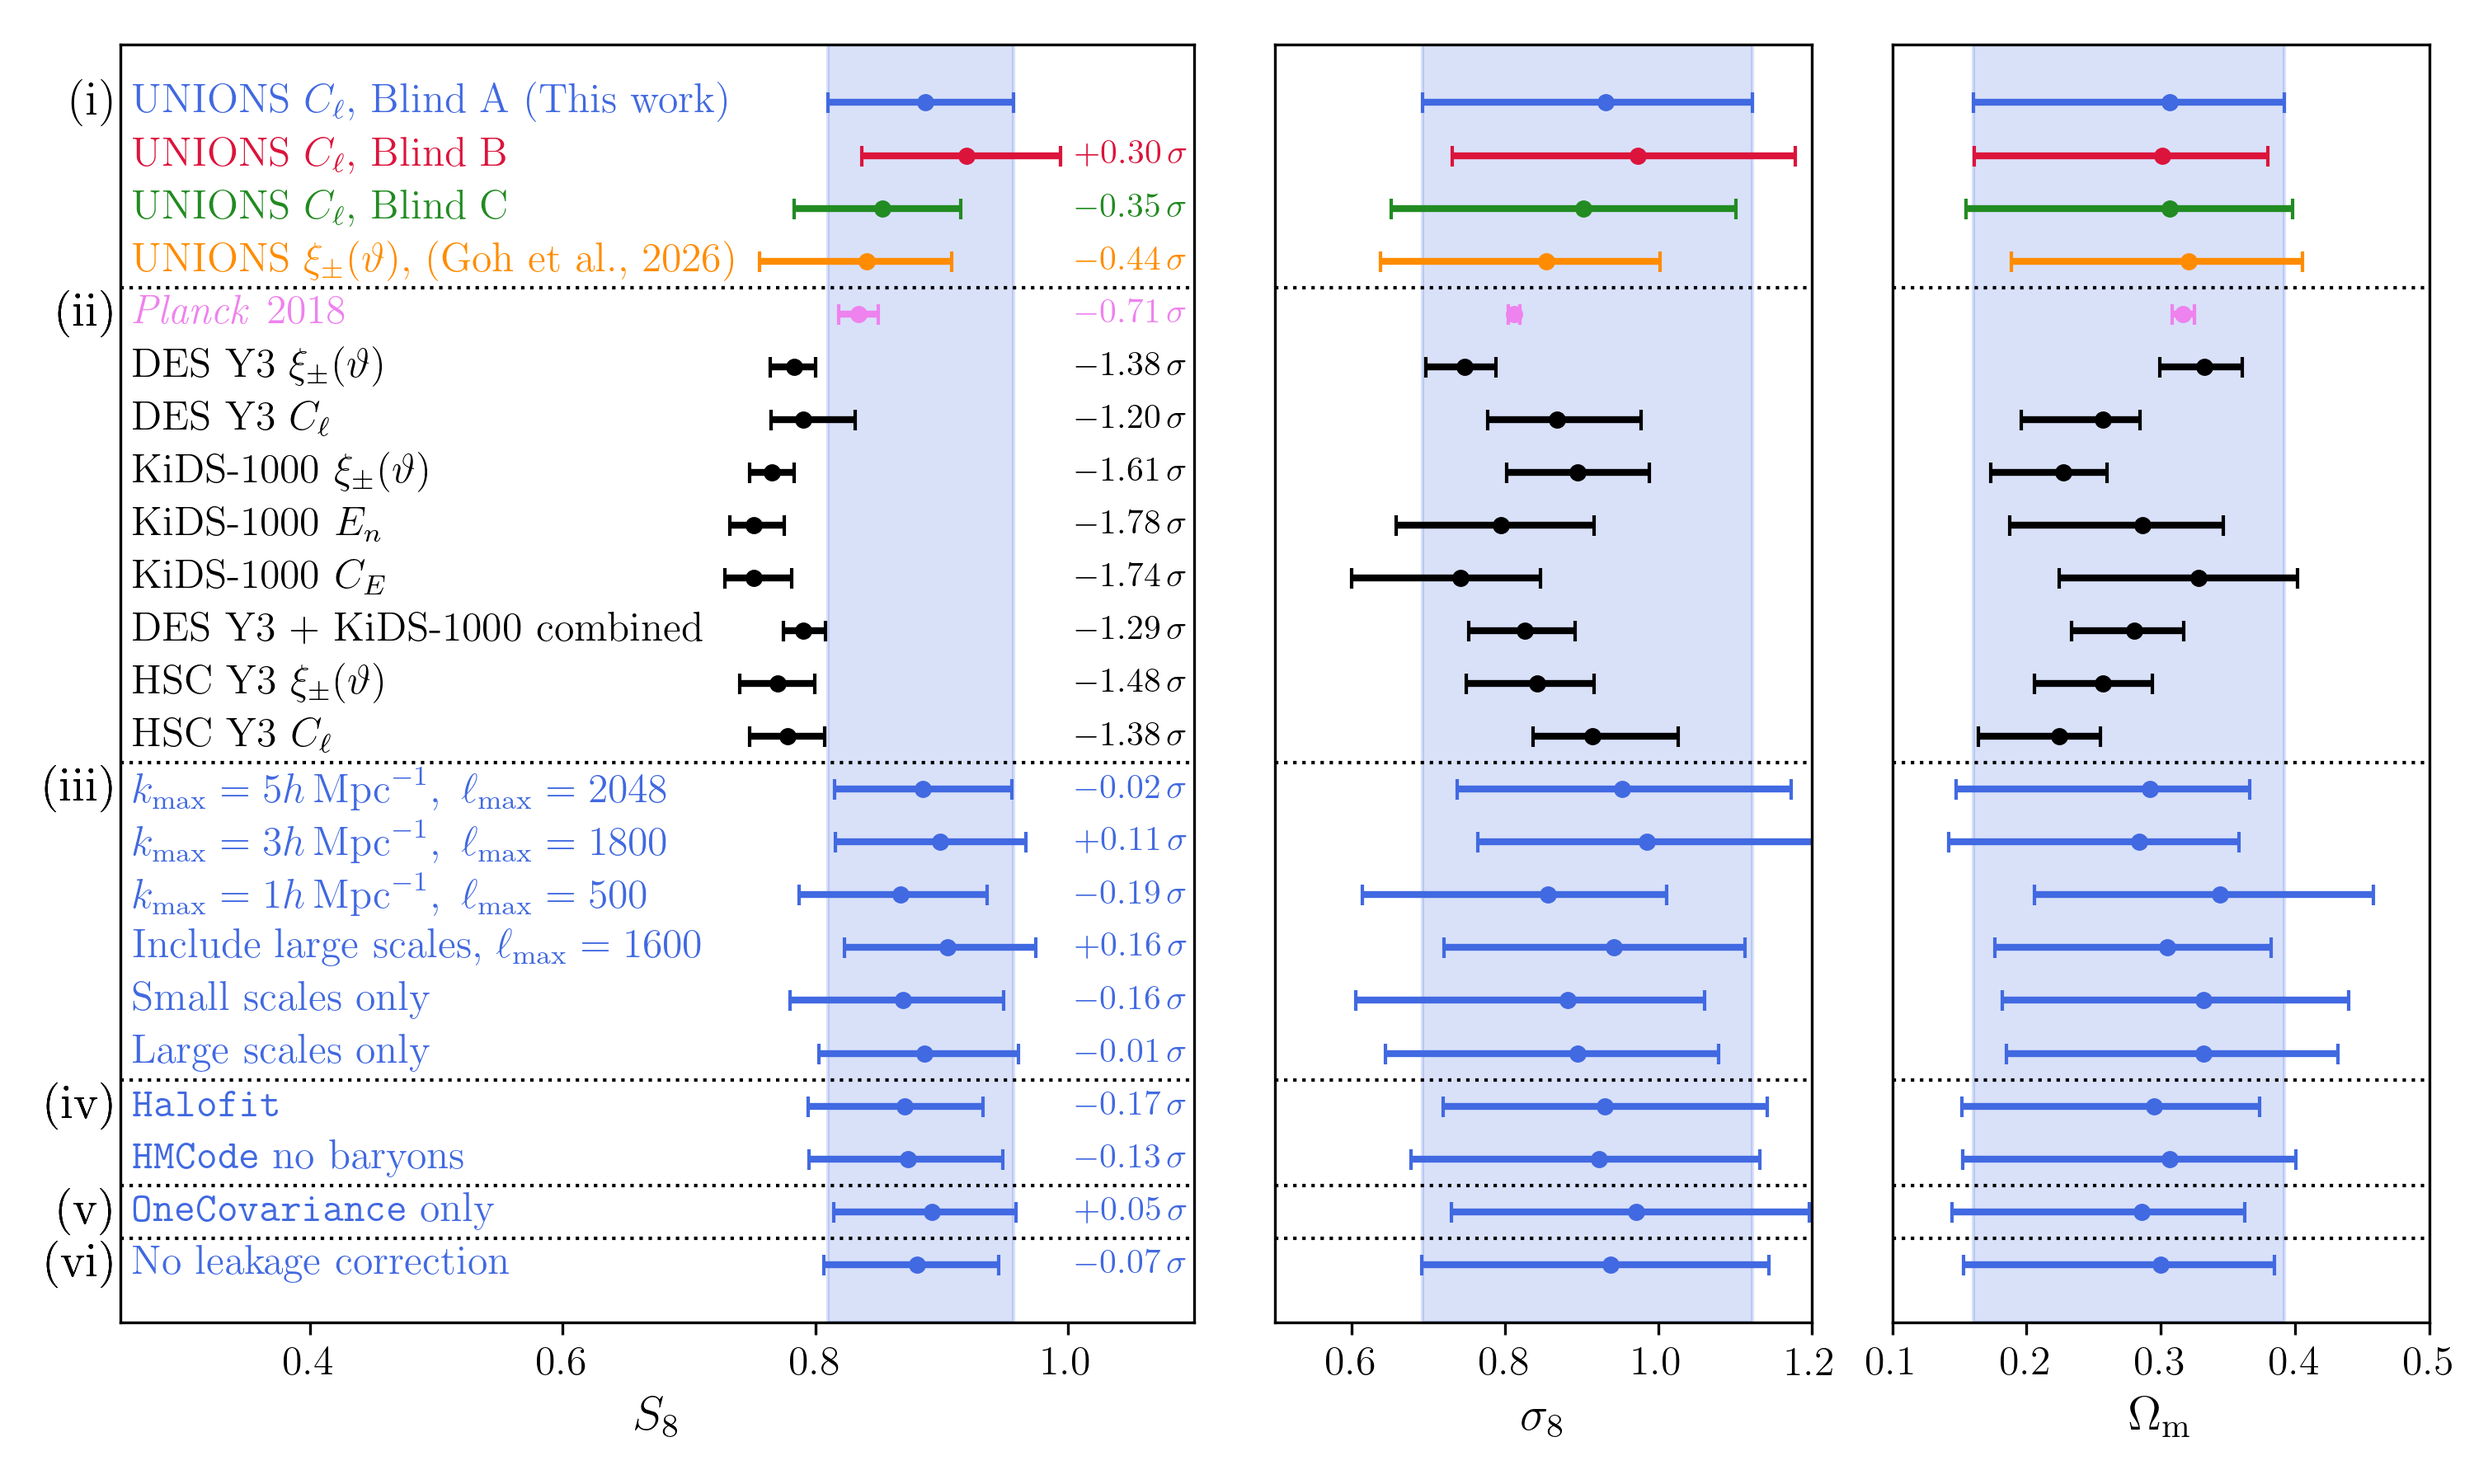
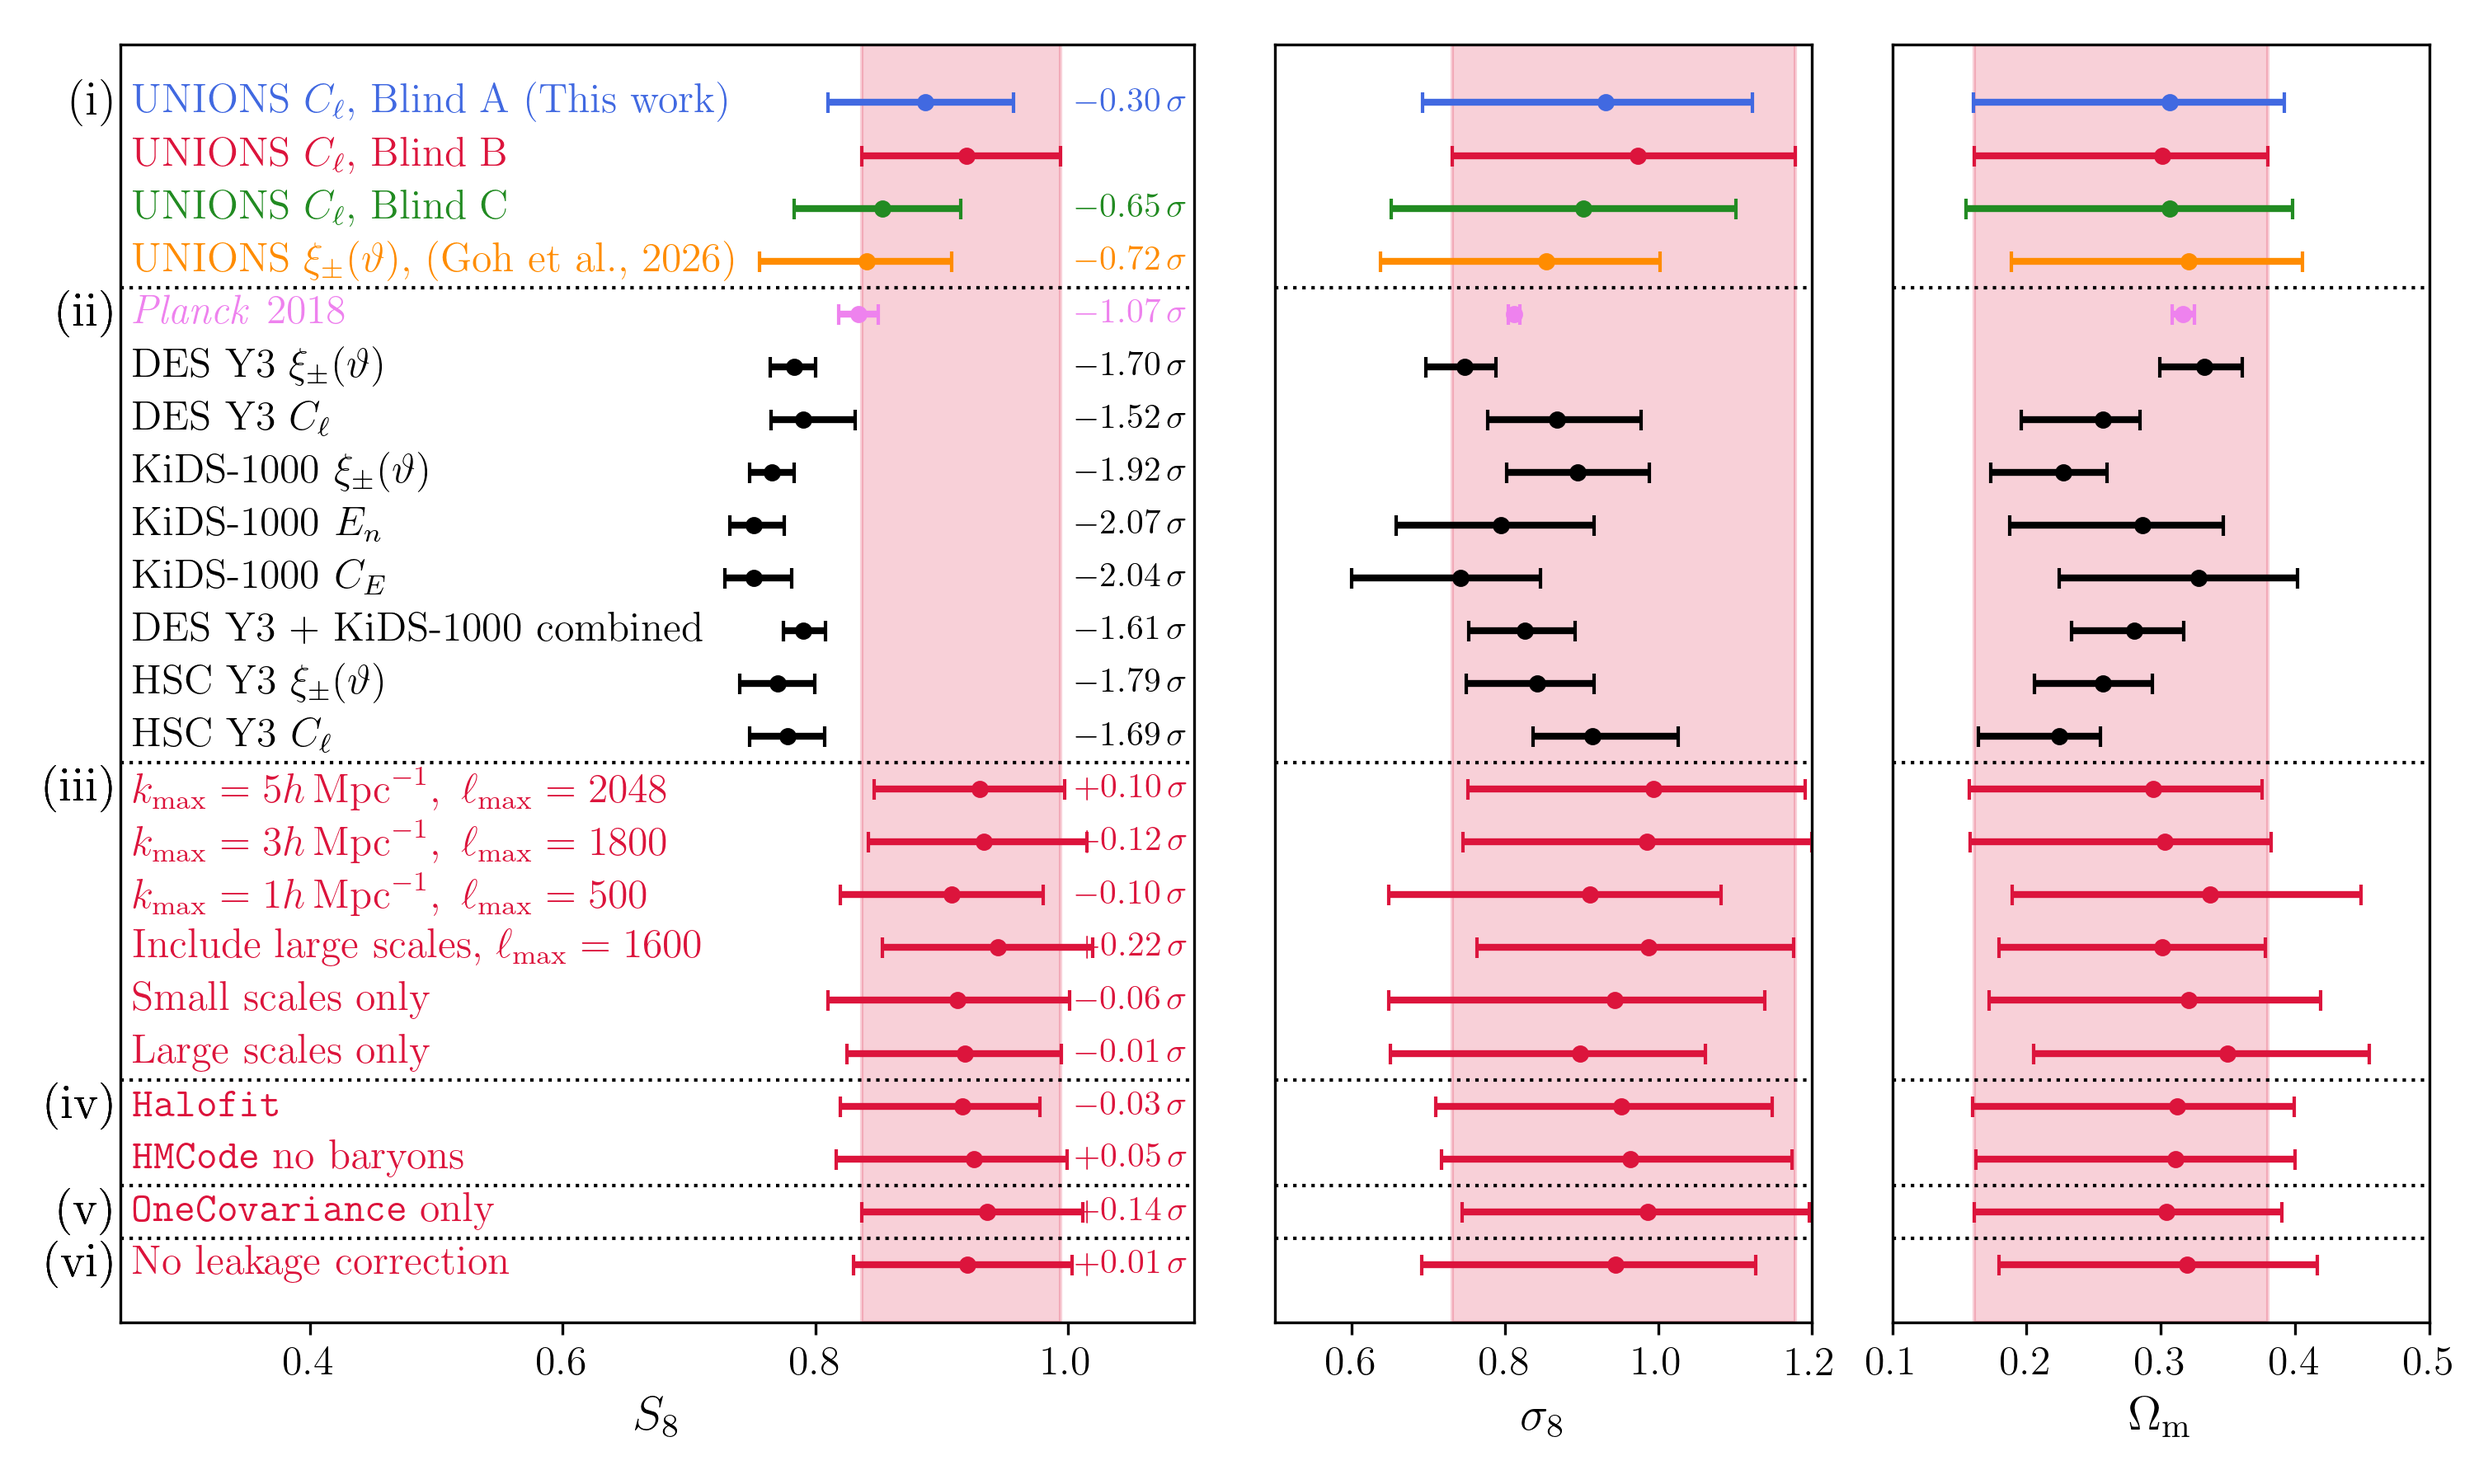
moriond talk: blind B updates, PTE highlight, whisker swap
- All slide text updated: blind A → blind B as physical n(z)
- Tension numbers adjusted: config–harmonic ~0.5σ, Planck ~1σ
- PTE table wrapped in .pte-table-container with teal CSS overlay
  highlighting the Size cuts / Fiducial row
- Whisker figure swapped to blind B version from Sasha
  (labels still show Blind A — needs Sasha to rerun notebook)

diff --git a/26_Moriond_UNIONS/custom.scss b/26_Moriond_UNIONS/custom.scss
@@ -140,6 +140,29 @@ figcaption > span {
     margin-top: 0px;
 }
 
+.pte-table-container {
+    position: relative;
+
+    .quarto-figure {
+        position: relative;
+    }
+
+    .quarto-figure::after {
+        content: "";
+        position: absolute;
+        // Size cuts / Fiducial row highlight
+        top: 43%;
+        left: 12%;
+        width: 76%;
+        height: 7.5%;
+        border: 3px solid rgba(0, 128, 128, 0.85);
+        background: rgba(0, 128, 128, 0.08);
+        border-radius: 4px;
+        pointer-events: none;
+        z-index: 10;
+    }
+}
+
 
 // .align-left p,
 // .align-left ul,
